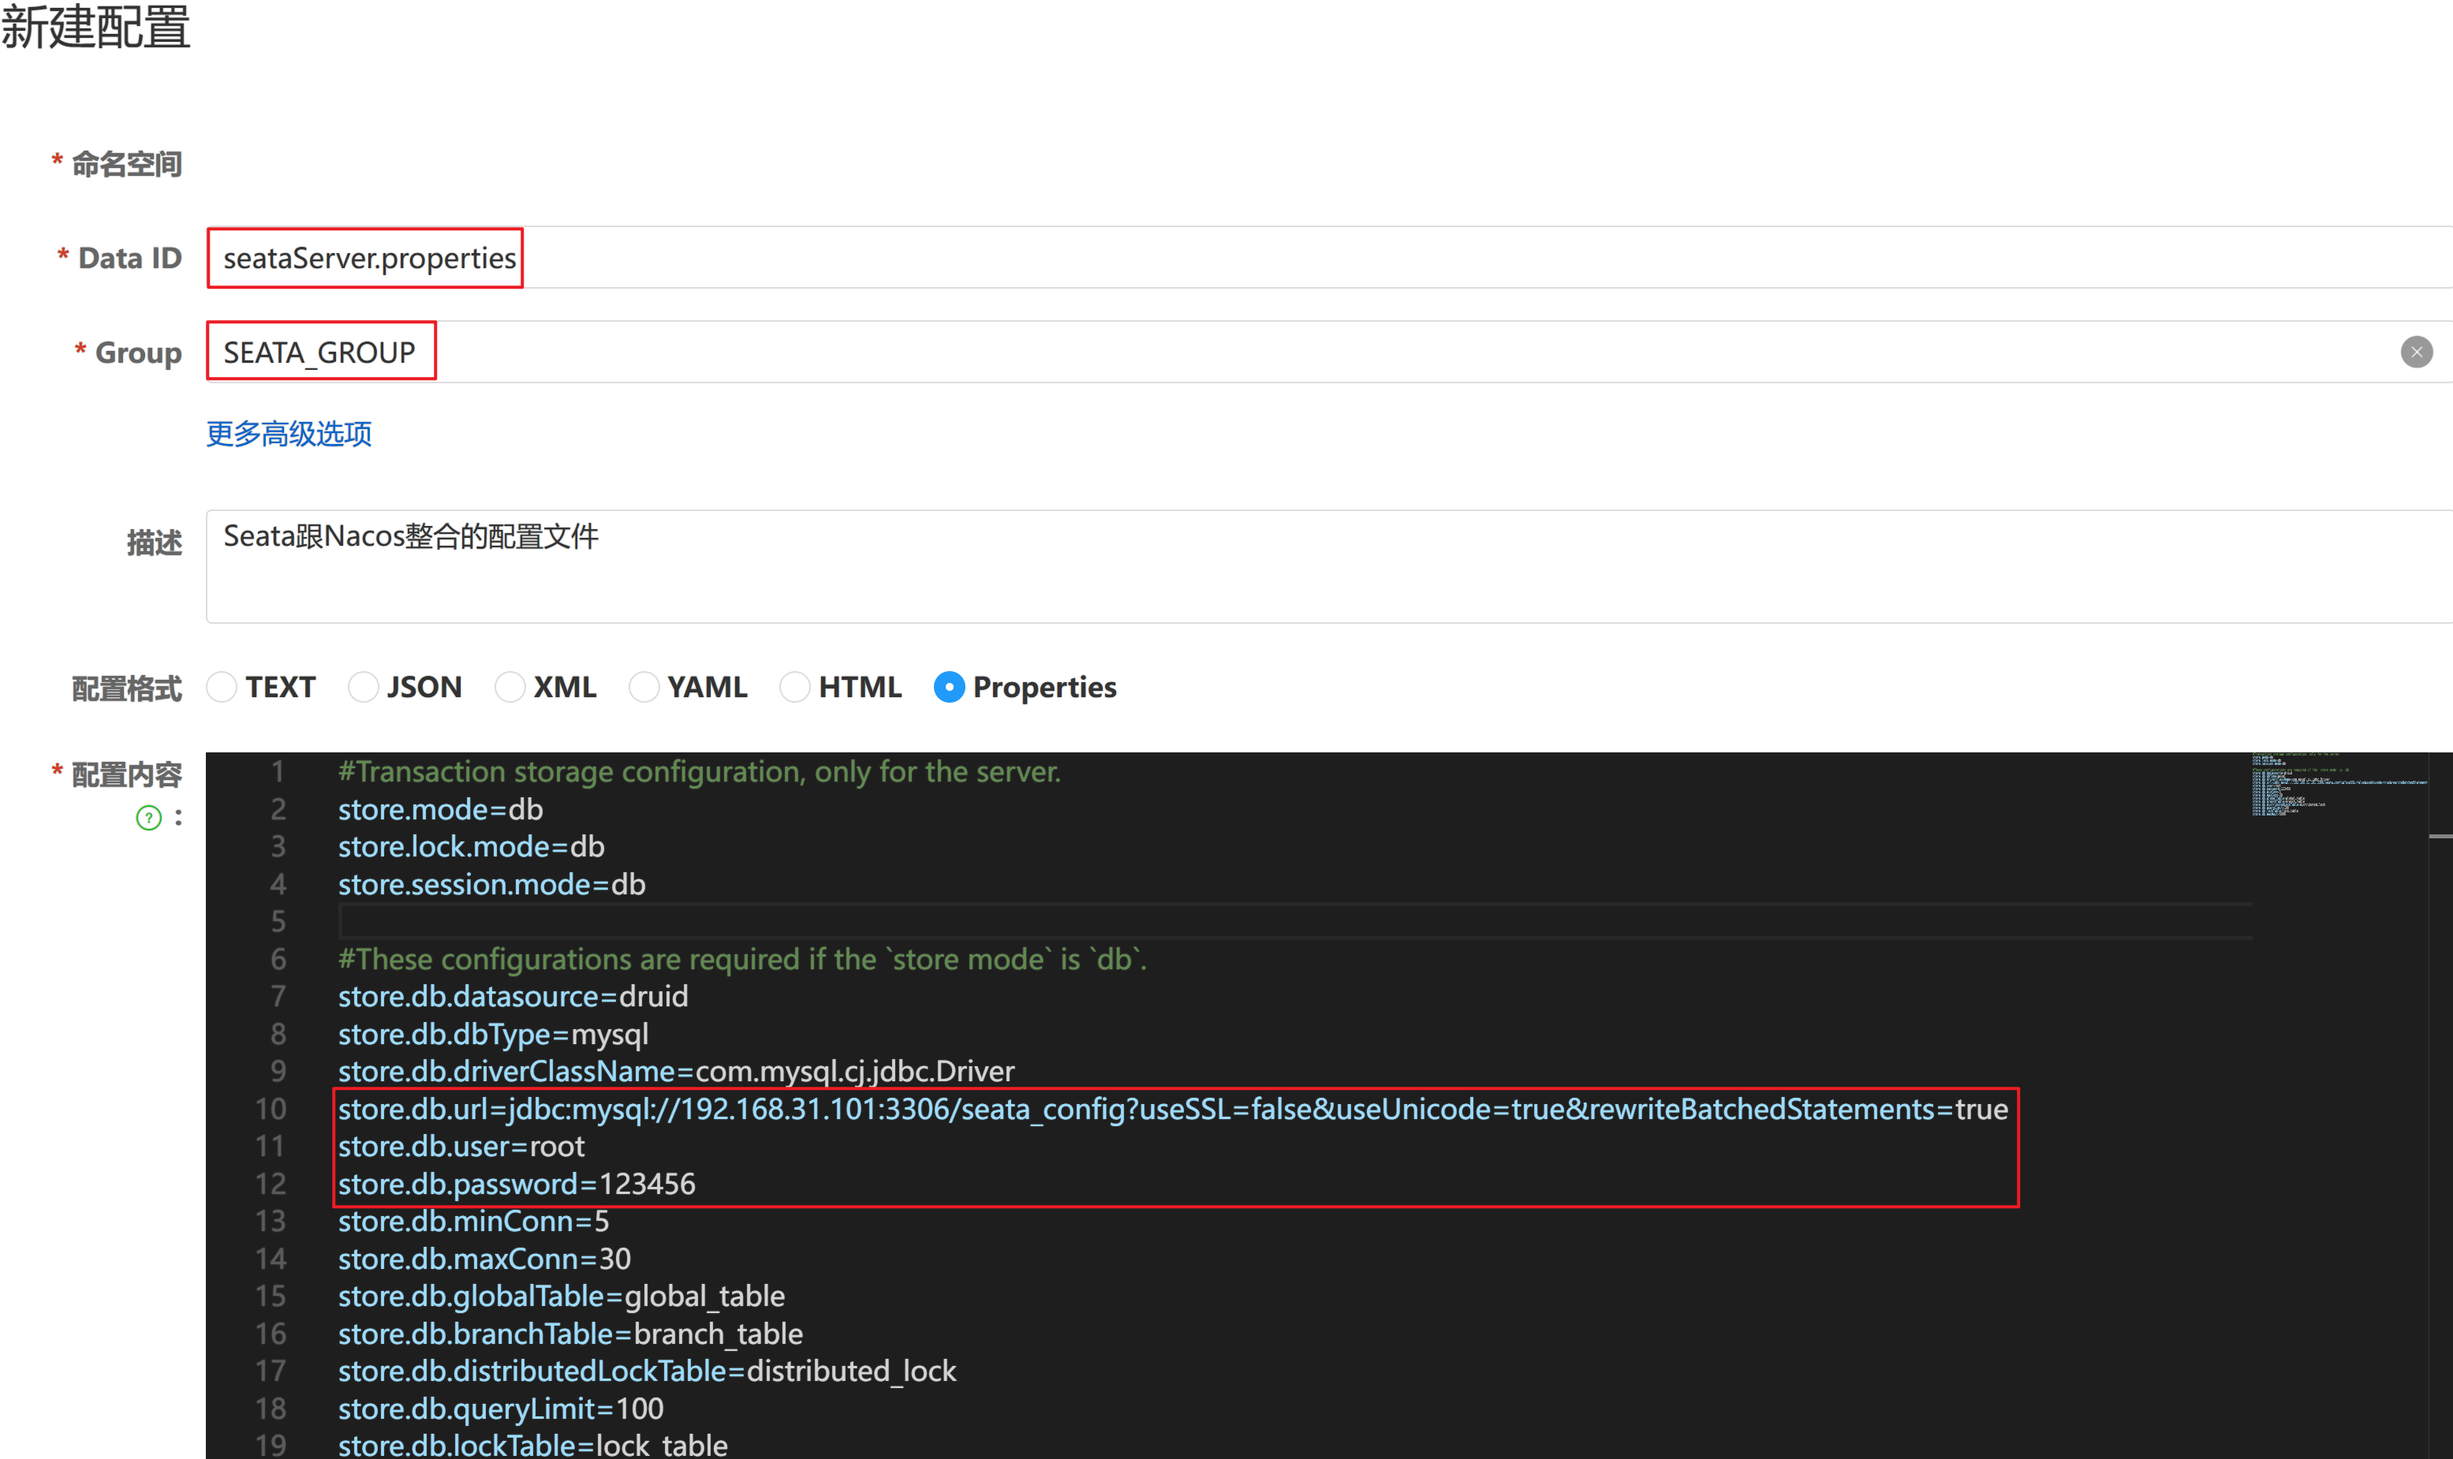
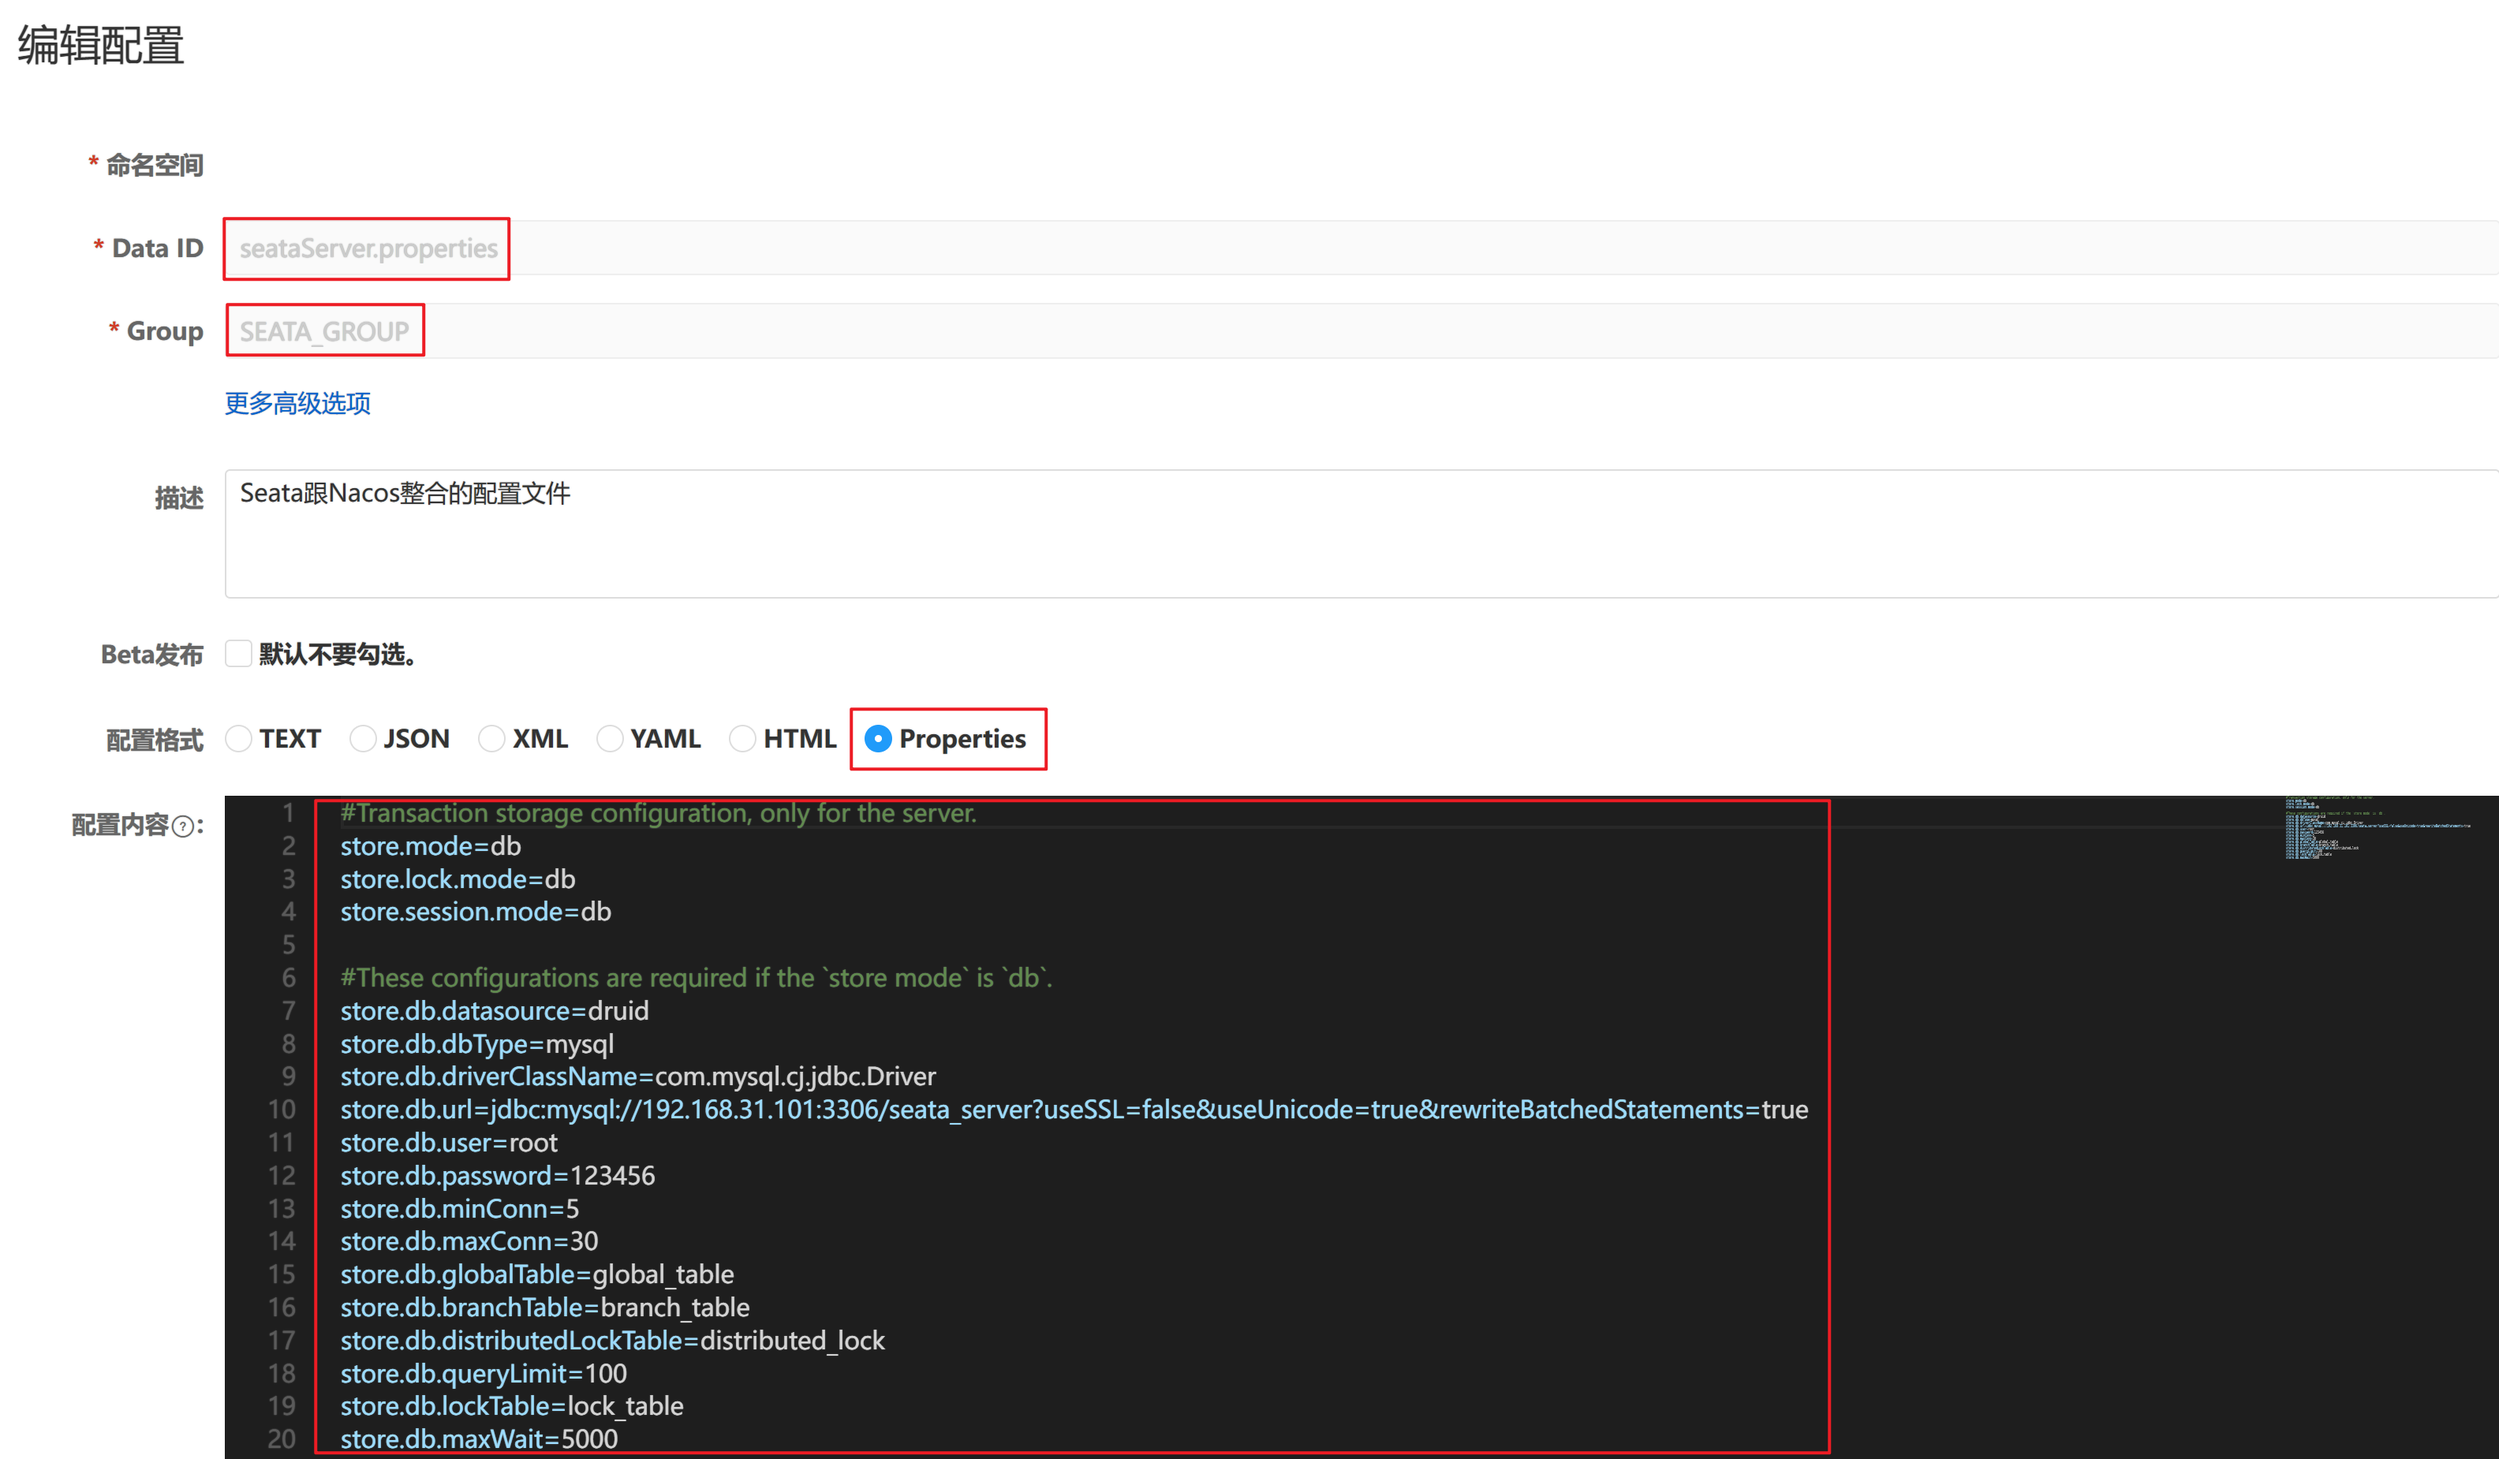
Feature: XA模式下新增调试日志以及配置优化

diff --git a/seata-xa/xa-stock-service/src/main/java/cn/dlmyl/xa/stock/controller/XaStockController.java b/seata-xa/xa-stock-service/src/main/java/cn/dlmyl/xa/stock/controller/XaStockController.java
@@ -3,6 +3,7 @@ package cn.dlmyl.xa.stock.controller;
 import cn.dlmyl.xa.stock.common.Constants;
 import cn.dlmyl.xa.stock.service.XaStockService;
 import lombok.RequiredArgsConstructor;
+import lombok.extern.slf4j.Slf4j;
 import org.springframework.web.bind.annotation.GetMapping;
 import org.springframework.web.bind.annotation.RequestMapping;
 import org.springframework.web.bind.annotation.RestController;
@@ -12,6 +13,7 @@ import org.springframework.web.bind.annotation.RestController;
  *
  * @author dlmyL
  */
+@Slf4j
 @RestController
 @RequiredArgsConstructor
 @RequestMapping("/stocks")
@@ -23,8 +25,8 @@ public class XaStockController {
     public String deduct(String commodityCode, int count) {
         try {
             stockService.deduct(commodityCode, count);
-        } catch (Exception exx) {
-            exx.printStackTrace();
+        } catch (Exception ex) {
+            log.error("扣减库存失败：{}", ex.getMessage(), ex);
             return Constants.FAIL;
         }
         return Constants.SUCCESS;

diff --git a/seata-xa/xa-business-service/src/main/java/cn/dlmyl/xa/business/service/XaBusinessService.java b/seata-xa/xa-business-service/src/main/java/cn/dlmyl/xa/business/service/XaBusinessService.java
@@ -30,13 +30,13 @@ public class XaBusinessService {
         String result = stockFeignClient.deduct(commodityCode, orderCount);
 
         if (!Constants.SUCCESS.equals(result)) {
-            throw new RuntimeException("库存服务调用失败，事务回滚");
+            throw new RuntimeException("扣减库存失败，事务回滚");
         }
 
         result = orderFeignClient.create(userId, commodityCode, orderCount);
 
         if (!Constants.SUCCESS.equals(result)) {
-            throw new RuntimeException("订单服务调用失败，事务回滚");
+            throw new RuntimeException("创建订单失败，事务回滚");
         }
 
         if (rollback) {

diff --git a/seata-xa/xa-stock-service/src/main/java/cn/dlmyl/xa/stock/service/XaStockService.java b/seata-xa/xa-stock-service/src/main/java/cn/dlmyl/xa/stock/service/XaStockService.java
@@ -28,7 +28,7 @@ public class XaStockService extends ServiceImpl<XaStockMapper, XaStock> {
 
         XaStock stock = lambdaQuery().eq(XaStock::getCommodityCode, commodityCode).one();
         if (stock != null && stock.getCount() < count) {
-            throw new RuntimeException("Not Enough count ...");
+            throw new RuntimeException("库存不够了！");
         }
         lambdaUpdate().setSql("count = count-" + count)
                 .eq(XaStock::getCommodityCode, commodityCode)

diff --git a/seata-xa/xa-account-service/src/main/java/cn/dlmyl/xa/account/service/XaAccountService.java b/seata-xa/xa-account-service/src/main/java/cn/dlmyl/xa/account/service/XaAccountService.java
@@ -25,7 +25,7 @@ public class XaAccountService extends ServiceImpl<XaAccountMapper, XaAccount> {
 
         XaAccount account = lambdaQuery().eq(XaAccount::getUserId, userId).one();
         if (account != null && account.getMoney() < money) {
-            throw new RuntimeException("Not Enough Money ...");
+            throw new RuntimeException("账户余额不足！");
         }
         lambdaUpdate().setSql("money = money - " + money)
                 .eq(XaAccount::getUserId, userId)

diff --git a/seata-xa/xa-order-service/src/main/java/cn/dlmyl/xa/order/service/XaOrderService.java b/seata-xa/xa-order-service/src/main/java/cn/dlmyl/xa/order/service/XaOrderService.java
@@ -41,7 +41,7 @@ public class XaOrderService extends ServiceImpl<XaOrderMapper, XaOrder> {
         // 调用账户余额扣减
         String result = accountFeignClient.reduce(userId, orderMoney);
         if (!Constants.SUCCESS.equals(result)) {
-            throw new RuntimeException("Failed to call Account Service. ");
+            throw new RuntimeException("调用账户服务失败");
         }
     }
 

diff --git a/seata-xa/xa-account-service/src/main/java/cn/dlmyl/xa/account/controller/XaAccountController.java b/seata-xa/xa-account-service/src/main/java/cn/dlmyl/xa/account/controller/XaAccountController.java
@@ -26,7 +26,7 @@ public class XaAccountController {
         try {
             accountService.reduce(userId, money);
         } catch (Exception ex) {
-            log.error("账户余额扣减失败: {}", ex.getMessage(), ex);
+            log.error("扣减账户余额失败: {}", ex.getMessage(), ex);
             return Constants.FAIL;
         }
         return Constants.SUCCESS;

diff --git a/doc/Seata与Nacos的整合配置.md b/doc/Seata与Nacos的整合配置.md
@@ -14,7 +14,7 @@ store.session.mode=db
 store.db.datasource=druid
 store.db.dbType=mysql
 store.db.driverClassName=com.mysql.cj.jdbc.Driver
-store.db.url=jdbc:mysql://192.168.31.101:3306/seata_config?useSSL=false&useUnicode=true&rewriteBatchedStatements=true
+store.db.url=jdbc:mysql://192.168.31.101:3306/seata_server?useSSL=false&useUnicode=true&rewriteBatchedStatements=true
 store.db.user=root
 store.db.password=123456
 store.db.minConn=5
